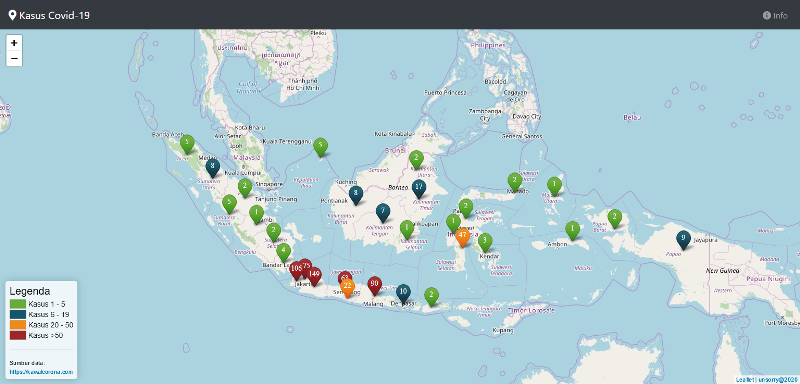
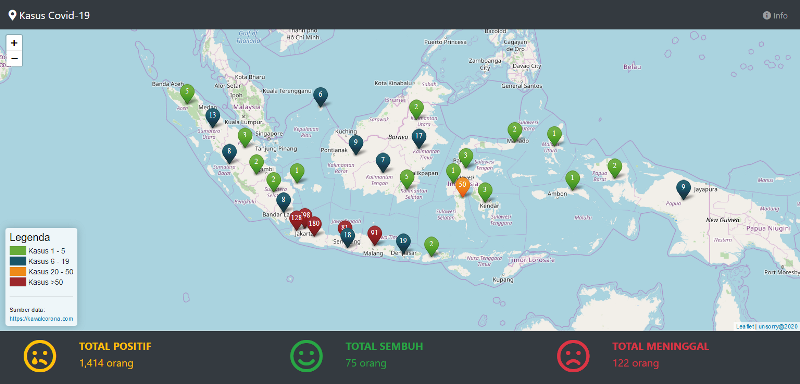
[Commit 2020-03-30]
- Menampilkan data jumlah total kasus positif, sembuh, dan meninggal di
Indonesia

diff --git a/dashboardpolygonprovinsi.php b/dashboardpolygonprovinsi.php
@@ -13,7 +13,7 @@
   <link rel="stylesheet" href="https://cdnjs.cloudflare.com/ajax/libs/font-awesome/5.11.2/css/all.min.css">
   <link rel="stylesheet" href="https://maxcdn.bootstrapcdn.com/font-awesome/4.7.0/css/font-awesome.min.css">
   <link rel="stylesheet" href="https://unpkg.com/leaflet@1.6.0/dist/leaflet.css">
-  <link rel="stylesheet" href="https://cdnjs.cloudflare.com/ajax/libs/Leaflet.awesome-markers/2.0.2/leaflet.awesome-markers.css" />
+  <link rel="stylesheet" href="assets/lib/Leaflet.ExtraMarkers/css/leaflet.extra-markers.min.css" />
   <style>
     html, body, .container-fluid, #map {
       width: 100%;
@@ -24,6 +24,22 @@
     .container-fluid {
       padding-top: 55px;
     }
+    .row-map {
+      width: 100%;
+      height: 85%;
+      margin: 0px;
+      padding: 0px;
+    }
+    .row-info {
+      width: 100%;
+      height: 15%;
+      margin: 0px;
+      padding: 0px;
+    }
+    .col-sm {
+      padding: 0px;
+    }
+    
     .info {
       padding: 6px 8px;
       font: 14px/16px Arial, Helvetica, sans-serif;
@@ -43,7 +59,7 @@
   <script src="https://cdn.jsdelivr.net/npm/popper.js@1.16.0/dist/umd/popper.min.js"></script>
   <script src="https://stackpath.bootstrapcdn.com/bootstrap/4.4.1/js/bootstrap.min.js"></script>
   <script src="https://unpkg.com/leaflet@1.6.0/dist/leaflet.js"></script>
-  <script src="https://cdnjs.cloudflare.com/ajax/libs/Leaflet.awesome-markers/2.0.2/leaflet.awesome-markers.js"></script>
+  <script src="assets/lib/Leaflet.ExtraMarkers/js/leaflet.extra-markers.min.js"></script>
 
   <nav class="navbar navbar-expand-lg navbar-dark bg-dark fixed-top">
     <a class="navbar-brand" href="#"><i class="fas fa-map-marker-alt"></i> Kasus Covid-19</a>
@@ -90,7 +106,53 @@
   </div>
 
   <div class="container-fluid">
-    <div id="map"></div>
+    <div class="row row-map">
+      <div class="col-sm">
+        <div id="map"></div>
+      </div>
+    </div>
+    <div class="row row-info">
+      <?php
+        $dataIndonesia = file_get_contents("https://api.kawalcorona.com/indonesia/");
+        $kasusIndonesia = json_decode($dataIndonesia);
+
+        foreach($kasusIndonesia as $item){
+      ?>
+      <div class="col-sm-4 text-center text-warning bg-dark">
+        <div class="row p-3">
+          <div class="col-3">
+            <i class="far fa-sad-tear fa-4x"></i>
+          </div>
+          <div class="col text-left">
+            <h5><strong>TOTAL POSITIF</strong></h5>
+            <h5><?php echo $item->positif; ?> orang</h5>
+          </div>
+        </div>
+      </div>
+      <div class="col-sm-4 text-center text-success bg-dark">
+        <div class="row p-3">
+          <div class="col-3">
+            <i class="far fa-smile fa-4x"></i>
+          </div>
+          <div class="col text-left">
+            <h5><strong>TOTAL SEMBUH</strong></h5>
+            <h5><?php echo $item->sembuh; ?> orang</h5>
+          </div>
+        </div>
+      </div>
+      <div class="col-sm-4 text-center text-danger bg-dark">
+        <div class="row p-3">
+          <div class="col-3">
+            <i class="far fa-frown fa-4x"></i>
+          </div>
+          <div class="col text-left">
+            <h5><strong>TOTAL MENINGGAL</strong></h5>
+            <h5><?php echo $item->meninggal; ?> orang</h5>
+          </div>
+        </div>
+      </div>
+      <?php } ?>
+    </div>
   </div>
   
   <script>

diff --git a/index.php b/index.php
@@ -24,6 +24,22 @@
     .container-fluid {
       padding-top: 55px;
     }
+    .row-map {
+      width: 100%;
+      height: 85%;
+      margin: 0px;
+      padding: 0px;
+    }
+    .row-info {
+      width: 100%;
+      height: 15%;
+      margin: 0px;
+      padding: 0px;
+    }
+    .col-sm {
+      padding: 0px;
+    }
+    
     .info {
       padding: 6px 8px;
       font: 14px/16px Arial, Helvetica, sans-serif;
@@ -90,7 +106,53 @@
   </div>
 
   <div class="container-fluid">
-    <div id="map"></div>
+    <div class="row row-map">
+      <div class="col-sm">
+        <div id="map"></div>
+      </div>
+    </div>
+    <div class="row row-info">
+      <?php
+        $dataIndonesia = file_get_contents("https://api.kawalcorona.com/indonesia/");
+        $kasusIndonesia = json_decode($dataIndonesia);
+
+        foreach($kasusIndonesia as $item){
+      ?>
+      <div class="col-sm-4 text-center text-warning bg-dark">
+        <div class="row p-3">
+          <div class="col-3">
+            <i class="far fa-sad-tear fa-4x"></i>
+          </div>
+          <div class="col text-left">
+            <h5><strong>TOTAL POSITIF</strong></h5>
+            <h5><?php echo $item->positif; ?> orang</h5>
+          </div>
+        </div>
+      </div>
+      <div class="col-sm-4 text-center text-success bg-dark">
+        <div class="row p-3">
+          <div class="col-3">
+            <i class="far fa-smile fa-4x"></i>
+          </div>
+          <div class="col text-left">
+            <h5><strong>TOTAL SEMBUH</strong></h5>
+            <h5><?php echo $item->sembuh; ?> orang</h5>
+          </div>
+        </div>
+      </div>
+      <div class="col-sm-4 text-center text-danger bg-dark">
+        <div class="row p-3">
+          <div class="col-3">
+            <i class="far fa-frown fa-4x"></i>
+          </div>
+          <div class="col text-left">
+            <h5><strong>TOTAL MENINGGAL</strong></h5>
+            <h5><?php echo $item->meninggal; ?> orang</h5>
+          </div>
+        </div>
+      </div>
+      <?php } ?>
+    </div>
   </div>
   
   <script>
@@ -156,7 +218,7 @@
     var kasusagakrendah = L.geoJson(null, {
       pointToLayer: function (feature, latlng) {
         if (feature.properties) {
-          var darkgreenMarker = L.ExtraMarkers.icon({
+          var darkblueMarker = L.ExtraMarkers.icon({
             icon: 'fa-number',
             number: feature.properties.Kasus_Positif,
             markerColor: 'blue-dark',
@@ -165,7 +227,7 @@
             tooltipAnchor: [15, -25]
           });
           return L.marker(latlng, {
-            icon: darkgreenMarker,
+            icon: darkblueMarker,
             riseOnHover: true
           });
         }
@@ -173,7 +235,7 @@
       onEachFeature: function (feature, layer) {
         if (feature.properties) {
           var content = "<div class='card'>" +
-          "<div class='card-header alert-warning text-center p-1'><strong>Provinsi<br>" + feature.properties.PROV + "</strong></div>" +
+          "<div class='card-header alert-primary text-center p-1'><strong>Provinsi<br>" + feature.properties.PROV + "</strong></div>" +
           "<div class='card-body p-0'>" +
             "<table class='table table-responsive-sm m-0'>" +
               "<tr><th><i class='far fa-sad-tear'></i> Kasus Positif</th><th>" + feature.properties.Kasus_Positif + "</th></tr>" +

diff --git a/README.md b/README.md
@@ -12,4 +12,4 @@ Klasifikasi kasus berdasarkan pada klasifikasi dari BNPB.
 
 `Centroid Provinsi:` [https://www.unsorry.net/git/geojsoncombine-corona](https://www.unsorry.net/git/geojsoncombine-corona)
 
-`Polygon Provinsi:` [https://www.unsorry.net/git/geojsoncombine-corona/polygonprovinsi.html](https://www.unsorry.net/git/geojsoncombine-corona/polygonprovinsi.html)
+`Polygon Provinsi:` [https://www.unsorry.net/git/geojsoncombine-corona/dashboardpolygonprovinsi.php](https://www.unsorry.net/git/geojsoncombine-corona/dashboardpolygonprovinsi.php)
